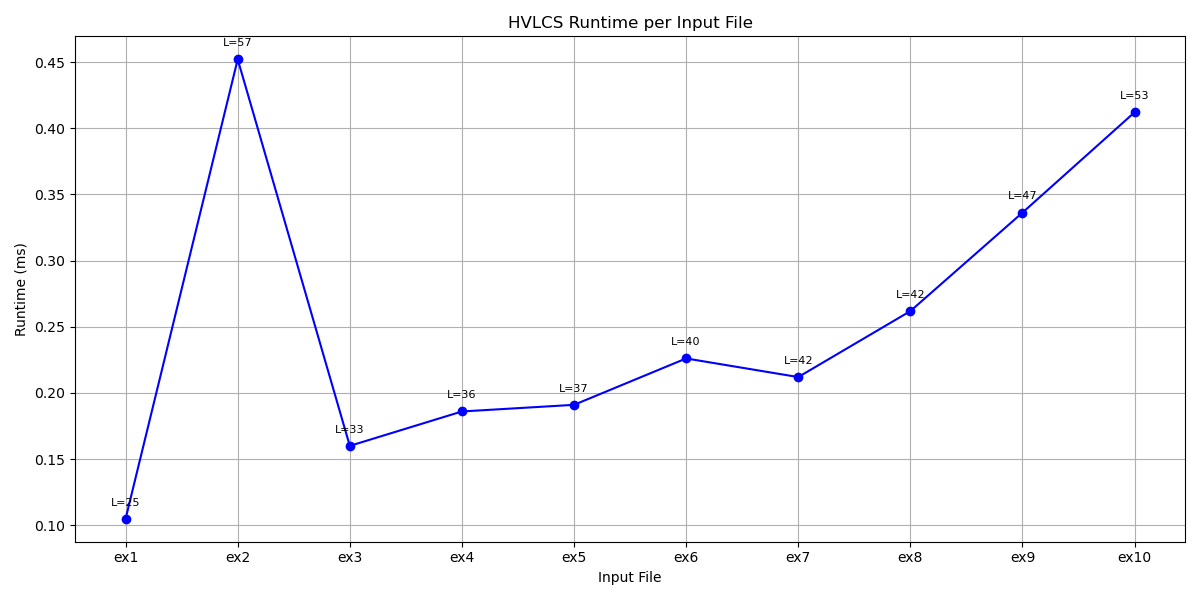
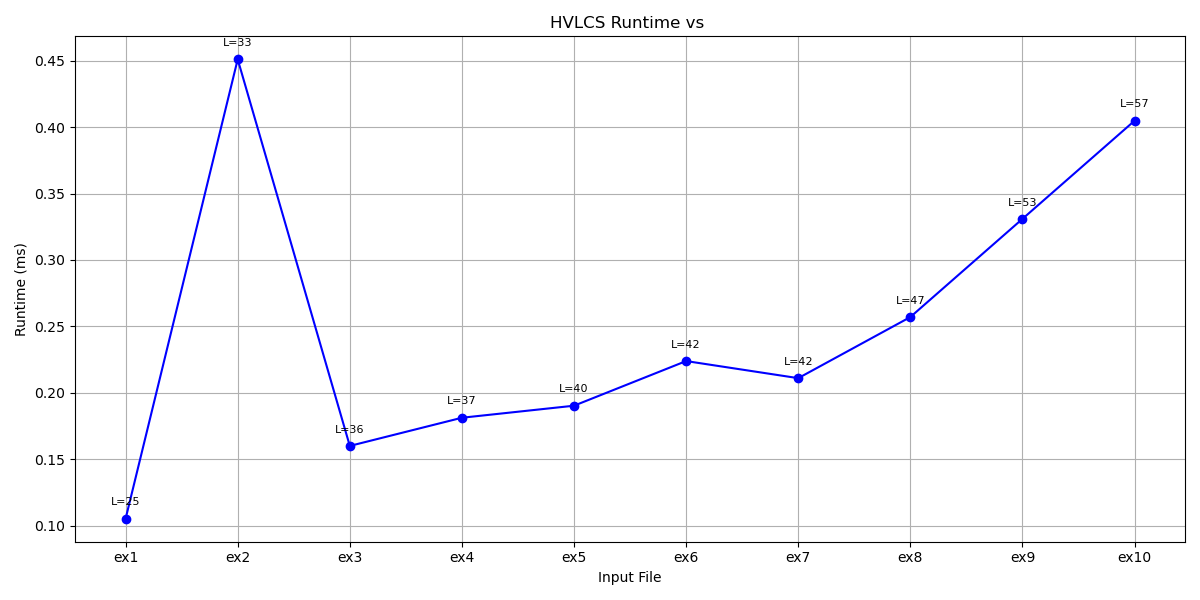
Fixed graph info not being sorted.

diff --git a/src/main.py b/src/main.py
@@ -54,6 +54,8 @@ def get_graph_data(input, output):
     file_labels = []
     for i in range(1, len(runtimes)+1):
         file_labels.append(f"ex{i}")
+    
+    lengths = sorted(lengths)
 
     # Plot graph with matplot
     plt.figure(figsize=(12,6))
@@ -65,7 +67,7 @@ def get_graph_data(input, output):
 
     plt.xlabel("Input File")
     plt.ylabel("Runtime (ms)")
-    plt.title("HVLCS Runtime per Input File")
+    plt.title("HVLCS Runtime vs Input File")
     plt.grid(True)
     plt.tight_layout()
     plt.savefig(os.path.join(output_folder, "hvlcs_runtime.png"))
